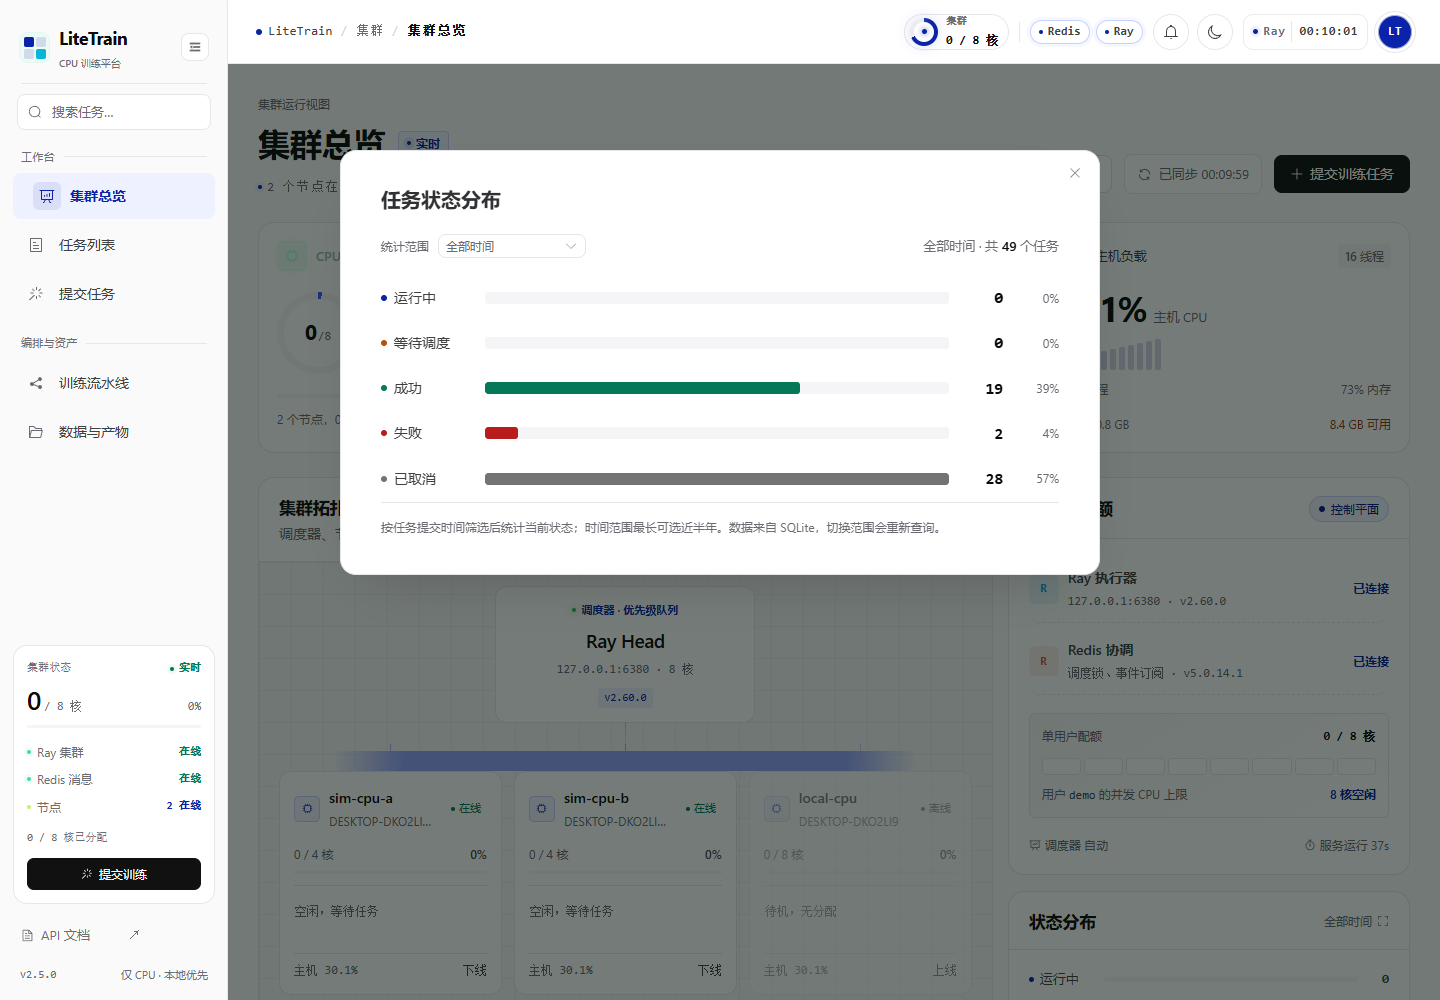
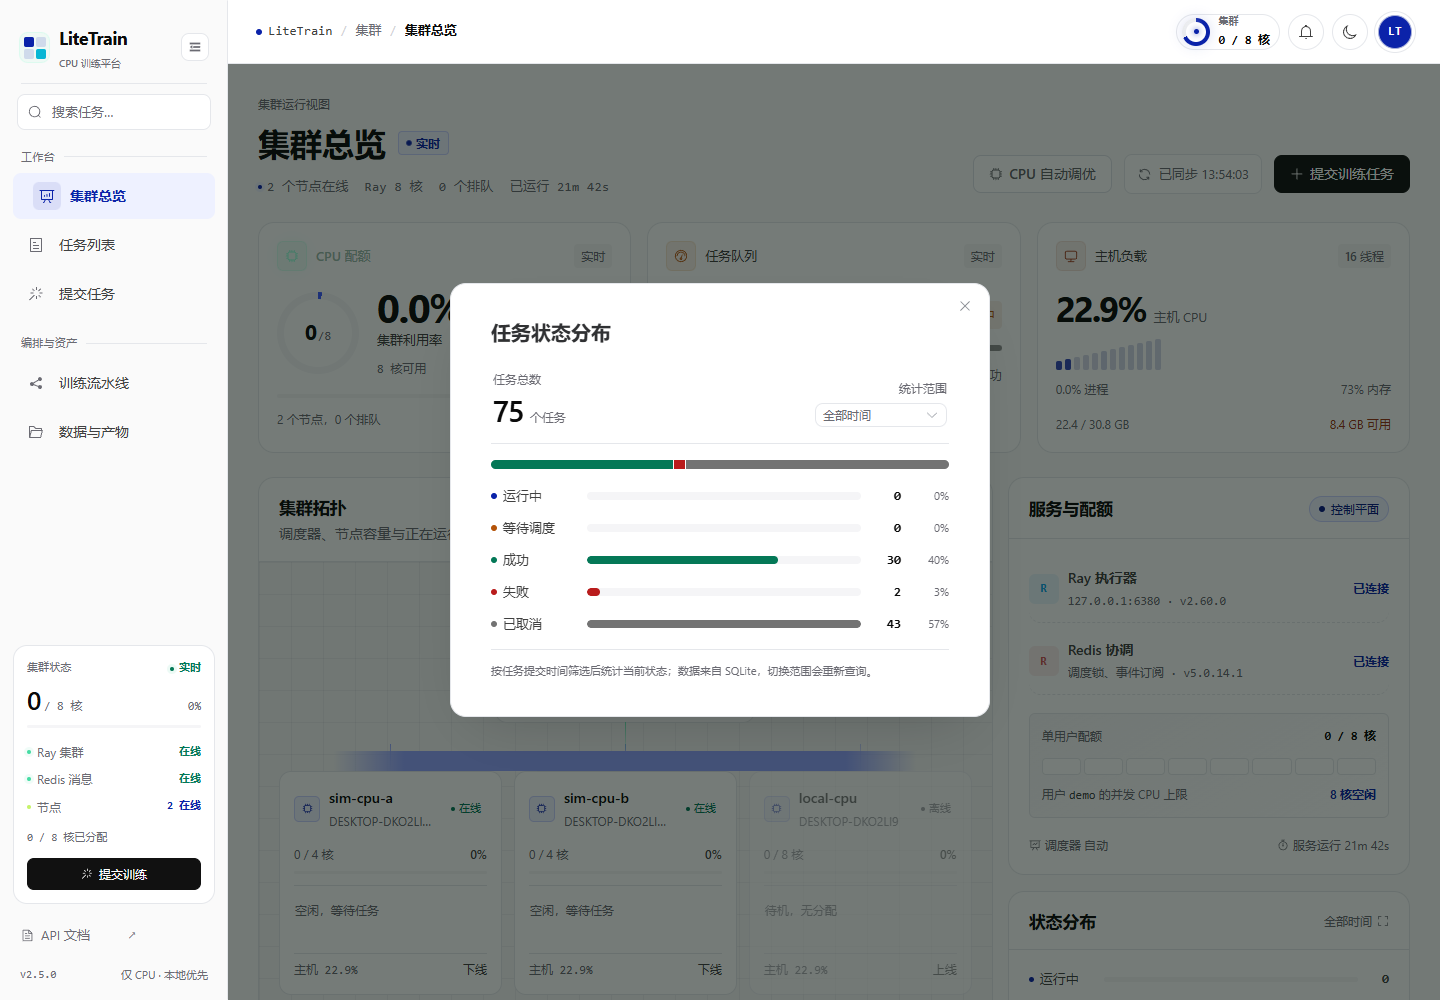
style(web): refine task distribution dialog

diff --git a/frontend/src/views/OverviewView.vue b/frontend/src/views/OverviewView.vue
@@ -884,10 +884,19 @@ onBeforeUnmount(() => {
       <el-dialog
         v-model="distributionOpen"
         title="任务状态分布"
-        width="min(760px, calc(100vw - 32px))"
+        width="540px"
+        align-center
+        class="distribution-dialog"
       >
-        <div class="distribution-toolbar">
-          <div class="distribution-range">
+        <div class="distribution-summary">
+          <div class="distribution-total-block">
+            <span class="soft-label">任务总数</span>
+            <div class="distribution-number">
+              <strong>{{ distribution?.total ?? 0 }}</strong>
+              <span>个任务</span>
+            </div>
+          </div>
+          <div class="distribution-range-block">
             <span class="soft-label">统计范围</span>
             <el-select
               v-model="distributionRange"
@@ -903,10 +912,17 @@ onBeforeUnmount(() => {
               />
             </el-select>
           </div>
-          <span class="distribution-total">
-            {{ distribution?.label ?? '全部时间' }} · 共
-            <strong>{{ distribution?.total ?? 0 }}</strong> 个任务
-          </span>
+        </div>
+
+        <div v-if="distribution?.total" class="distribution-stack" aria-hidden="true">
+          <span
+            v-for="row in distributionRows.filter((item) => item.value > 0)"
+            :key="row.key"
+            :style="{
+              width: `${(row.value / (distribution?.total ?? 1)) * 100}%`,
+              background: row.color,
+            }"
+          ></span>
         </div>
 
         <div v-loading="distributionLoading" class="distribution-large">
@@ -926,10 +942,11 @@ onBeforeUnmount(() => {
             <strong class="mono">{{ row.value }}</strong>
             <span class="distribution-percent">{{ distributionPercent(row.value) }}</span>
           </div>
+          <p v-if="!distribution?.total" class="distribution-empty">当前范围内还没有任务</p>
         </div>
 
         <p class="distribution-note">
-          按任务提交时间筛选后统计当前状态；时间范围最长可选近半年。数据来自 SQLite，切换范围会重新查询。
+          按任务提交时间筛选后统计当前状态；数据来自 SQLite，切换范围会重新查询。
         </p>
       </el-dialog>
     </template>
@@ -4025,6 +4042,162 @@ html.dark .accent-card {
     align-items: flex-start;
     flex-direction: column;
     gap: 5px;
+  }
+}
+
+/* Distribution dialog */
+.distribution-dialog {
+  max-width: calc(100vw - 24px);
+  border-radius: 14px;
+  overflow: hidden;
+}
+
+.distribution-dialog :deep(.el-dialog__header) {
+  padding: 22px 24px 4px;
+}
+
+.distribution-dialog :deep(.el-dialog__title) {
+  color: var(--text);
+  font-size: 18px;
+  font-weight: 600;
+  letter-spacing: -0.2px;
+}
+
+.distribution-dialog :deep(.el-dialog__body) {
+  padding: 12px 24px 22px;
+}
+
+.distribution-summary {
+  display: flex;
+  align-items: flex-end;
+  justify-content: space-between;
+  gap: 18px;
+  padding: 2px 2px 16px;
+  border-bottom: 1px solid var(--border);
+}
+
+.distribution-total-block,
+.distribution-range-block {
+  display: flex;
+  flex-direction: column;
+  gap: 5px;
+}
+
+.distribution-number {
+  display: flex;
+  align-items: baseline;
+  gap: 6px;
+}
+
+.distribution-number strong {
+  color: var(--text);
+  font-family: var(--font-display);
+  font-size: 30px;
+  font-weight: 500;
+  letter-spacing: -1px;
+  line-height: 1;
+}
+
+.distribution-number span {
+  color: var(--text-muted);
+  font-size: 12px;
+}
+
+.distribution-range-block {
+  align-items: flex-end;
+}
+
+.distribution-select {
+  width: 132px;
+}
+
+.distribution-stack {
+  display: flex;
+  width: 100%;
+  height: 9px;
+  margin: 16px 0 2px;
+  overflow: hidden;
+  border-radius: 5px;
+  background: var(--panel-soft);
+}
+
+.distribution-stack span {
+  display: block;
+  height: 100%;
+  min-width: 3px;
+  border-right: 1px solid var(--panel);
+}
+
+.distribution-stack span:last-child {
+  border-right: 0;
+}
+
+.distribution-large {
+  display: flex;
+  flex-direction: column;
+  gap: 10px;
+  min-height: 0;
+  margin-top: 16px;
+  padding: 0;
+}
+
+.distribution-row {
+  grid-template-columns: 86px minmax(0, 1fr) 30px 38px;
+  gap: 10px;
+}
+
+.distribution-label {
+  gap: 6px;
+  font-size: 13px;
+}
+
+.distribution-track {
+  height: 8px;
+  border-radius: 4px;
+}
+
+.distribution-row > strong {
+  font-size: 13px;
+  font-weight: 600;
+}
+
+.distribution-percent {
+  font-size: 11px;
+}
+
+.distribution-empty {
+  margin: 12px 0 2px;
+  color: var(--text-muted);
+  font-size: 12px;
+  text-align: center;
+}
+
+.distribution-note {
+  margin-top: 14px;
+  padding-top: 12px;
+  border-top: 1px solid var(--border);
+  color: var(--text-muted);
+  font-size: 11px;
+  line-height: 1.6;
+}
+
+@media (max-width: 480px) {
+  .distribution-dialog :deep(.el-dialog__header) {
+    padding: 18px 18px 2px;
+  }
+
+  .distribution-dialog :deep(.el-dialog__body) {
+    padding: 10px 18px 18px;
+  }
+
+  .distribution-summary {
+    align-items: flex-start;
+    flex-direction: column;
+    gap: 10px;
+  }
+
+  .distribution-range-block {
+    align-items: flex-start;
   }
 }
 </style>
